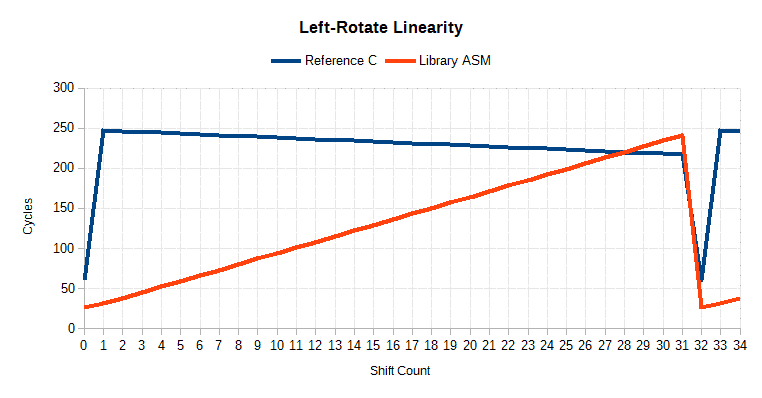
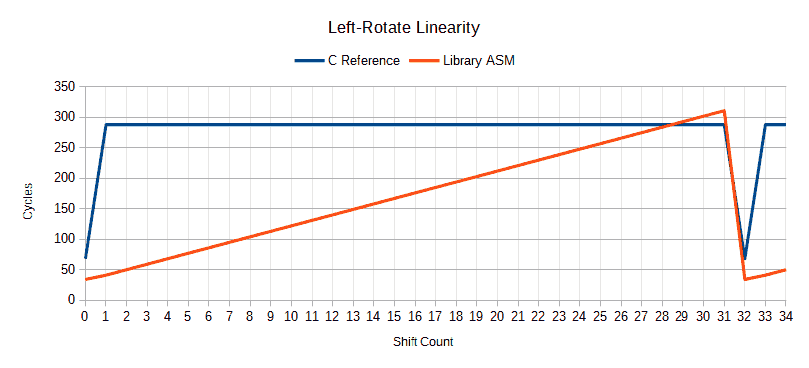
Updated benchmark figures in readme
- Updated benchmark figures in readme. Previous figures were wrong due to incorrect cycle counting in ucSim. New benchmark ran using patched ucSim from SDCC 4.0.3 pre-release.
- Added shell script (sim.sh) to run tests and benchmarks on Linux.

diff --git a/main.c b/main.c
@@ -387,6 +387,24 @@ void benchmark_rotate(void) {
 #undef rotate_count
 }
 
+/*
+void benchmark_rotate_linearity(void) {
+	static const uint32_t val_32 = 0x55555555UL;
+
+	for(uint8_t i = 0; i < 35; i++) {
+		printf("%u\n", i);
+
+		benchmark_marker_start();
+		rotate_left_32_ref(val_32, i);
+		benchmark_marker_end();
+
+		benchmark_marker_start();
+		rotate_left_32(val_32, i);
+		benchmark_marker_end();
+	}
+}
+*/
+
 void main(void) {
 	test_result_t results = { 0, 0 };
 
@@ -408,6 +426,12 @@ void main(void) {
 	benchmark_rotate();
 
 	puts(hrule_str);
+
+	/*
+	benchmark_rotate_linearity();
+
+	puts(hrule_str);
+	*/
 
 	test_swap(&results);
 	test_ctz_clz_ffs(&results);

diff --git a/README.md b/README.md
@@ -184,29 +184,29 @@ void main(void) {
 
 To benchmark the library functions, the execution speed of each was compared with that of it's associated plain C reference implementation (see `ref.c`). Each function was run for 10,000 iterations and the total number of processor execution cycles measured.
 
-| Function | Reference C | Library ASM | Ratio |
-| ---- | ---: | ---: | ---: |
-| swap | 280,008 | 140,008 | 50% |
-| bswap_16 | 290,010 | 190,010 | 66% |
-| bswap_32 | 900,014 | 250,014 | 28% |
-| pop_count_8 | 590,008 | 170,008 | 29% |
-| pop_count_16 | 1,990,010 | 260,010 | 13% |
-| pop_count_32 | 5,070,014 | 390,014 | 8% |
-| ctz_8 | 530,008 | 180,008 | 34% |
-| ctz_16 | 970,010 | 250,010 | 26% |
-| ctz_32 | 2,180,014 | 360,014 | 17% |
-| clz_8 | 450,008 | 170,008 | 38% |
-| clz_16 | 1,420,010 | 240,010 | 17% |
-| clz_32 | 4,250,014 | 340,014 | 8% |
-| ffs_8 | 670,008 | 270,008 | 40% |
-| ffs_16 | 1,110,010 | 340,010 | 31% |
-| ffs_32 | 2,380,014 | 510,014 | 21% |
-| rotate_left_8 | 650,008 | 550,008 | 85% |
-| rotate_left_16 | 1,040,010 | 930,010 | 89% |
-| rotate_left_32 | 2,260,014 | 1,940,014 | 86% |
-| rotate_right_8 | 650,008 | 550,008 | 85% |
-| rotate_right_16 | 1,020,010 | 930,010 | 91% |
-| rotate_right_32 | 2,240,014 | 1,940,014 | 87% |
+| Function        | Reference C | Library ASM | Ratio |
+| --------------- | ----------: | ----------: | ----: |
+| swap            |     460,009 |     260,009 |   57% |
+| bswap_16        |     440,010 |     350,010 |   80% |
+| bswap_32        |   1,130,015 |     420,015 |   37% |
+| pop_count_8     |     710,009 |     290,009 |   41% |
+| pop_count_16    |   2,140,010 |     410,010 |   19% |
+| pop_count_32    |   5,380,015 |     540,015 |   10% |
+| ctz_8           |     660,009 |     300,009 |   45% |
+| ctz_16          |   1,130,010 |     400,010 |   35% |
+| ctz_32          |   2,360,015 |     510,015 |   22% |
+| clz_8           |     570,009 |     290,009 |   51% |
+| clz_16          |   1,640,010 |     390,010 |   24% |
+| clz_32          |   4,550,015 |     490,015 |   11% |
+| ffs_8           |     890,009 |     480,009 |   54% |
+| ffs_16          |   1,370,010 |     590,010 |   43% |
+| ffs_32          |   2,670,015 |     770,015 |   29% |
+| rotate_left_8   |     770,009 |     680,009 |   88% |
+| rotate_left_16  |   1,350,010 |   1,200,010 |   89% |
+| rotate_left_32  |   2,970,015 |   2,570,015 |   87% |
+| rotate_right_8  |     770,009 |     680,009 |   88% |
+| rotate_right_16 |   1,330,010 |   1,260,010 |   95% |
+| rotate_right_32 |   2,950,015 |   2,690,015 |   91% |
 
 The benchmark was run using the [μCsim](http://mazsola.iit.uni-miskolc.hu/~drdani/embedded/ucsim/) microcontroller simulator included with SDCC, and measurements were obtained using the timer commands of the simulator.
 
